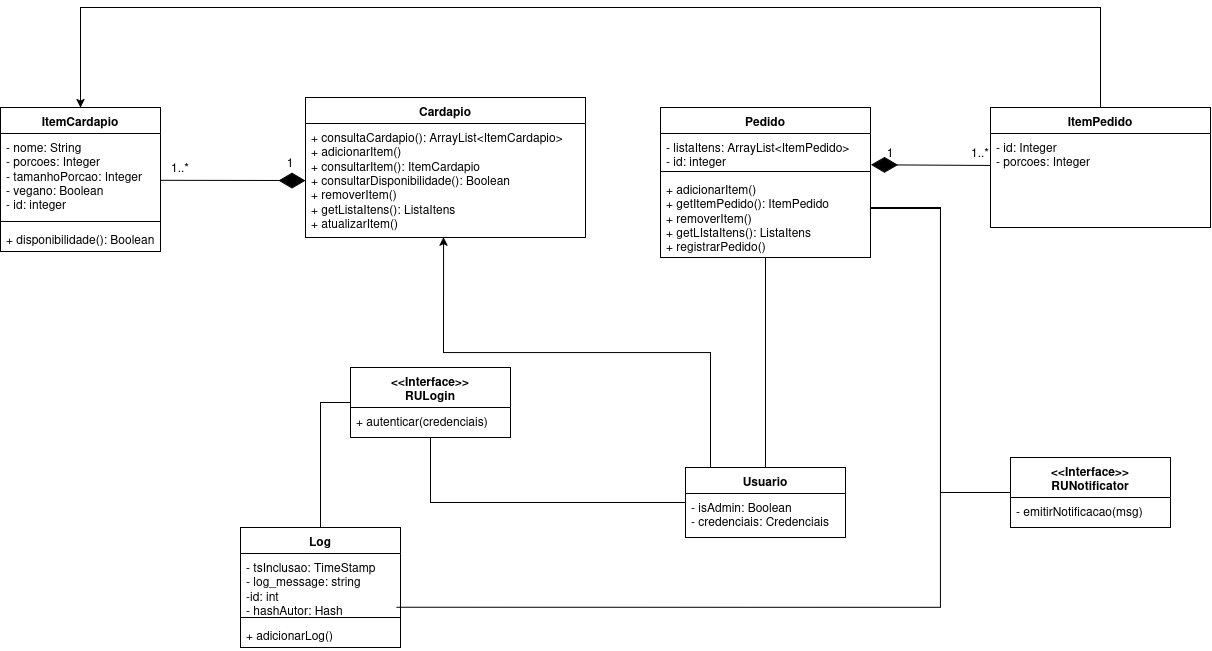
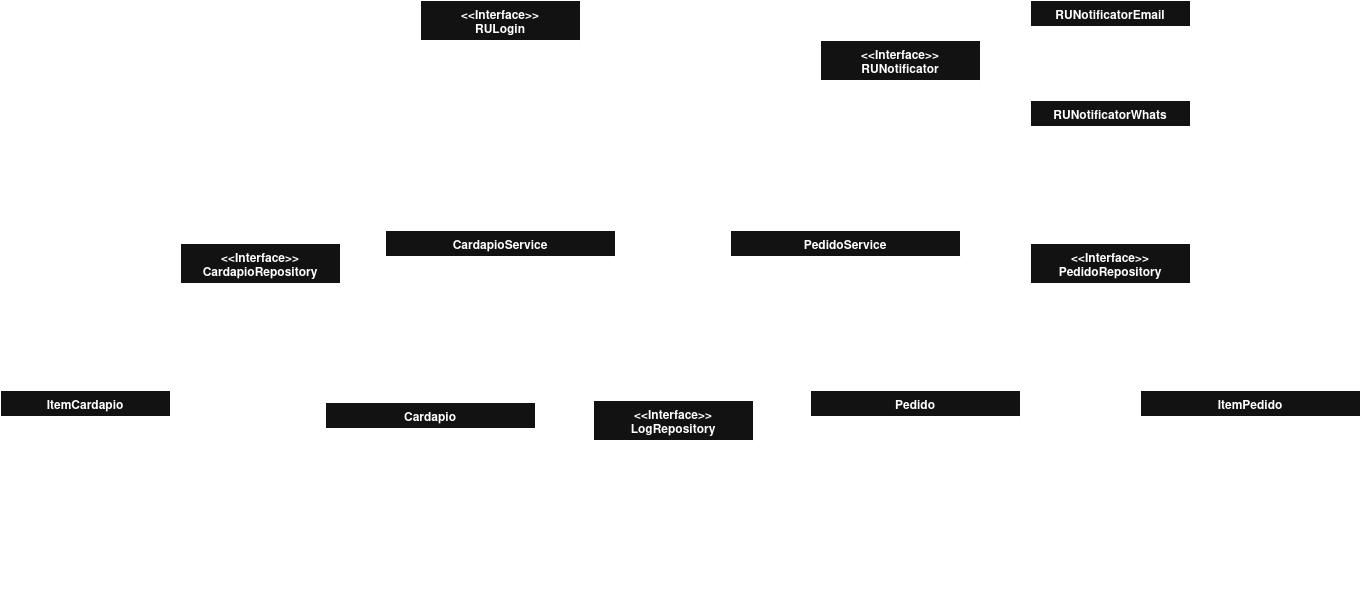
docs: incluindo digramas

diff --git a/docs/diagramas/diagramas.md b/docs/diagramas/diagramas.md
@@ -2,7 +2,22 @@
 
 ## Diagrama de Classes
 
+
+![diagrama_classes](./classes/Diagrama%20de%20Classes.png)
+
 ## Diagramas de Sequência
+Nos diagramas de sequência, a classe `Controller` ficou de fora pois só é responsável pelo roteamento entre os serviços, sem implementar regras de negócio complexas.
+
+### Caso de Uso 1: Alterar Cardápio
+![diagrama_sequencia_alterar_cardapio](./sequencia/Alterar%20Cardápio/Diagrama%20de%20Sequência%20-%20Alterar%20Cardápio.png)
+
+
+### Caso de Uso 2: Fazer Pedido
+![diagrama_sequencia_fazer_pedido](./sequencia/Caso%20de%20Uso%20Principal/Diagrama%20de%20Sequencia%20-%20Caso%20de%20Uso%20Principal.png)
+
+
+### Caso de Uso 3: Fazer Login
+![diagrama_sequencia_fazer_login](./sequencia/Login/Diagrama%20de%20Sequencia%20-%20Login.png)
 
 ## Diagramas de Comunicação
 Os componentes `Tela da Aplicação`e `Controller` foram dispensados dos diagramas de comunicação para facilitar a visualização do fluxo da requisição do usuário ao sistema. O `Controller` apenas recebe a requisição e a interpreta para o serviço correspondente, sem implementar regras de negócio complexas.
@@ -18,3 +33,4 @@ Os componentes `Tela da Aplicação`e `Controller` foram dispensados dos diagram
 ---
 
 ## Diagrama de Componentes
+![diagrama_componentes](./componentes/componentes.drawio.png)
